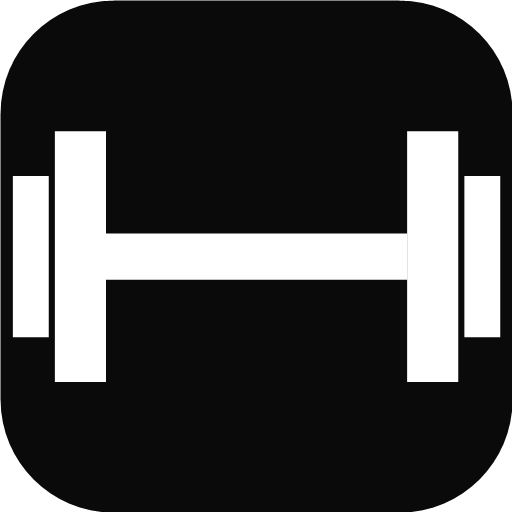
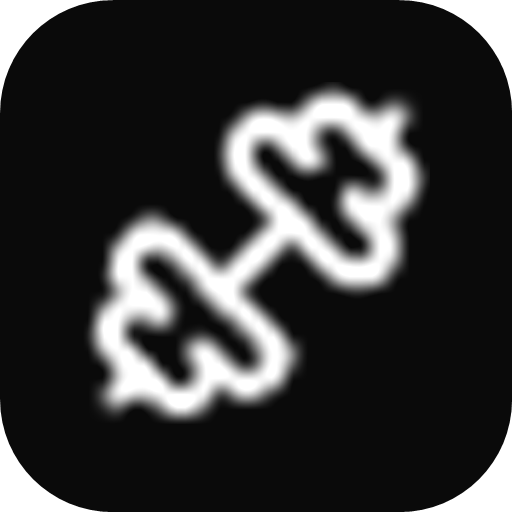
logon vaihto

diff --git a/app.js b/app.js
@@ -277,13 +277,7 @@ function App() {
   return (
     <div style={c.wrap}>
       <div style={{display:"flex", alignItems:"center", gap:10, marginBottom:16}}>
-        <svg width="28" height="28" viewBox="0 0 28 28" fill="none">
-          <rect x="3" y="11" width="3" height="6" rx="1" fill="#fff"/>
-          <rect x="22" y="11" width="3" height="6" rx="1" fill="#fff"/>
-          <rect x="6" y="9" width="2" height="10" rx="1" fill="#fff"/>
-          <rect x="20" y="9" width="2" height="10" rx="1" fill="#fff"/>
-          <rect x="8" y="13" width="12" height="2" rx="1" fill="#fff"/>
-        </svg>
+        <img src="icon-192.png" width="32" height="32" style={{borderRadius:7, display:"block"}} alt="" />
         <h2 style={{fontSize:20, fontWeight:700, color:"#fff", margin:0, flex:1}}>Sali</h2>
       </div>
       <div style={c.tabs}>
